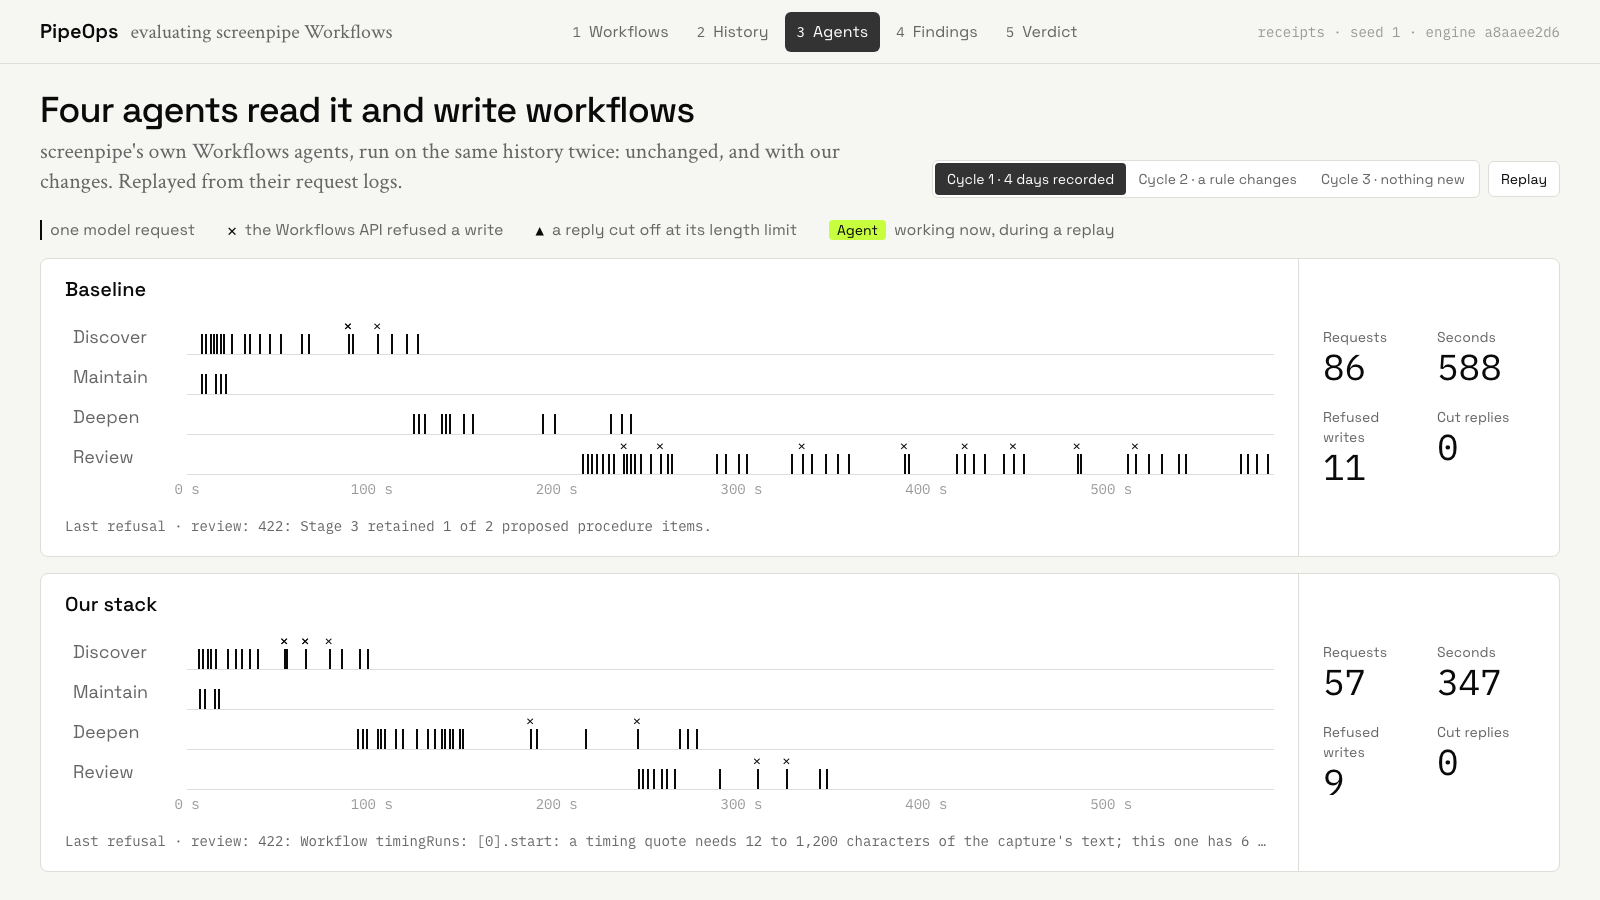
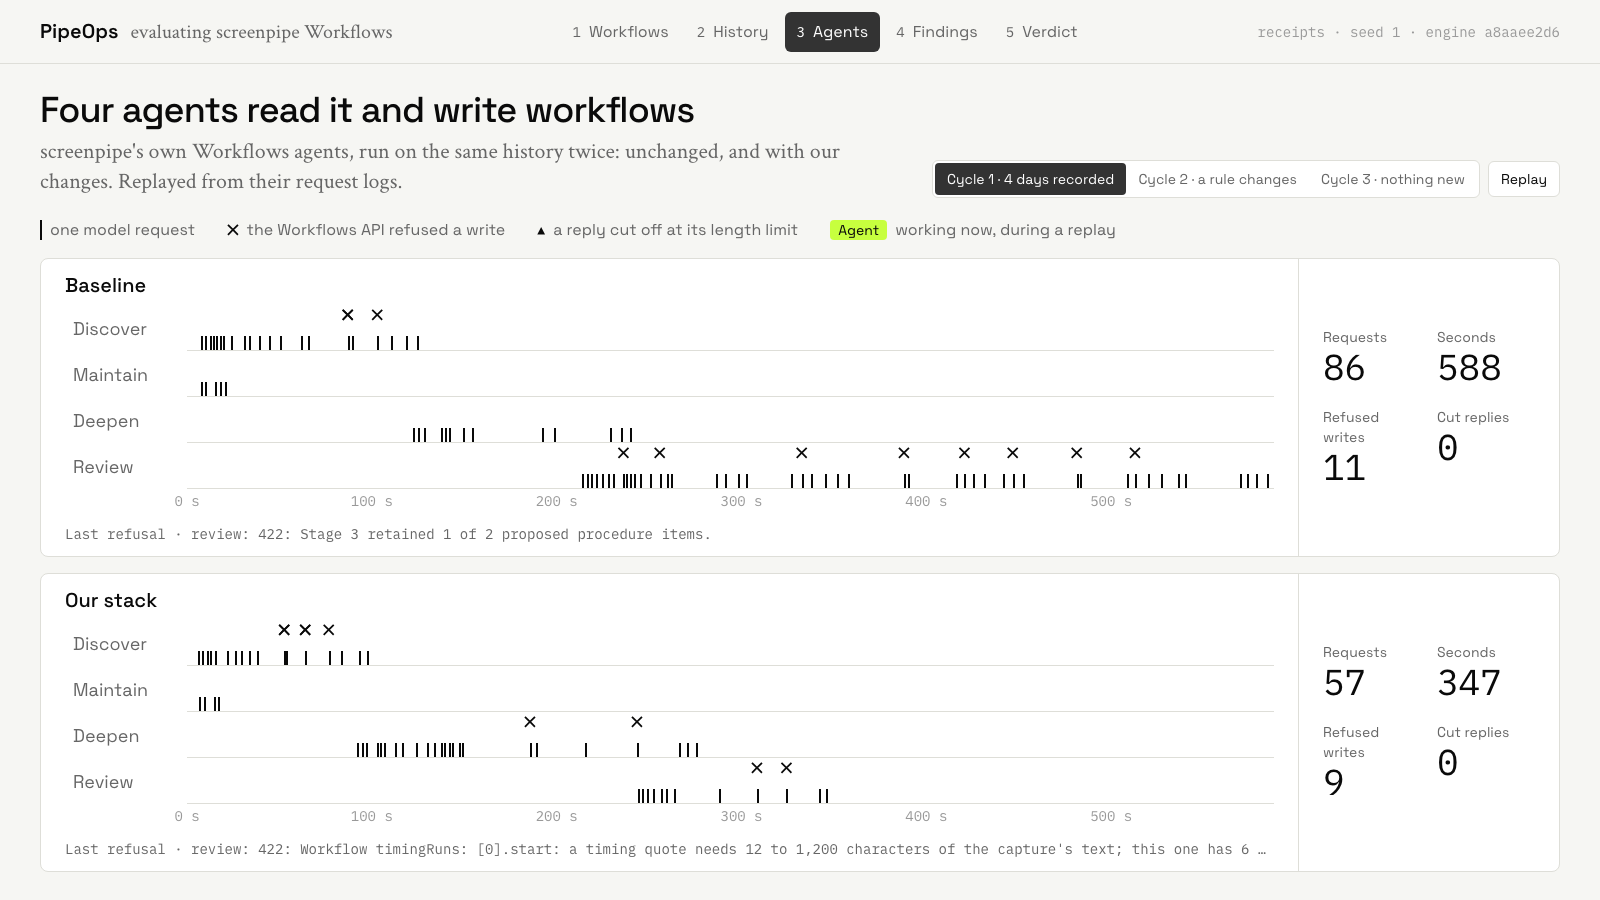
PipeOps agents: refusals, cut replies and requests on separate sub-lanes

diff --git a/pipeops/src/screens/Agents.tsx b/pipeops/src/screens/Agents.tsx
@@ -44,8 +44,8 @@ export default function Agents() {
       <div className="flex h-full flex-col gap-4">
         <div className="flex shrink-0 items-center gap-8 font-sans text-base text-muted">
           <span className="flex items-center gap-2"><span className="inline-block h-5 w-[2px] bg-ink" /> one model request</span>
-          <span className="flex items-center gap-2"><span className="font-mono text-base text-ink">✕</span> the Workflows API refused a write</span>
-          <span className="flex items-center gap-2"><span className="font-mono text-sm text-ink">▲</span> a reply cut off at its length limit</span>
+          <span className="flex items-center gap-2"><span className="font-sans text-[15px] font-semibold text-ink">✕</span> the Workflows API refused a write</span>
+          <span className="flex items-center gap-2"><span className="font-mono text-[13px] text-ink">▲</span> a reply cut off at its length limit</span>
           <span className="flex items-center gap-2"><span className="rounded-sm bg-phosphor px-2 font-sans text-sm text-ink">Agent</span> working now, during a replay</span>
         </div>
         {lanes.map(({ side, p }) => <Lane key={side} side={side} p={p} span={span} now={now} />)}
@@ -65,18 +65,18 @@ function Lane({ side, p, span, now }: { side: Side; p: Phase; span: number; now:
 
   return (
     <Card className="grid min-h-0 flex-1 grid-cols-[1fr_260px]">
-      <div className="flex min-w-0 flex-col border-r border-line px-6 py-4">
-        <div className="mb-2 font-sans text-xl font-medium">{SIDE_NAME[side]}</div>
+      <div className="flex min-w-0 flex-col border-r border-line px-6 py-3">
+        <div className="font-sans text-xl font-medium">{SIDE_NAME[side]}</div>
         {idle ? (
           <div className="flex flex-1 items-center font-serif text-3xl italic text-muted">No cycle ran: nothing new was recorded.</div>
         ) : (
-          <div className="flex flex-1 flex-col justify-center gap-1">
+          <div className="flex flex-1 flex-col justify-center gap-0.5">
             {AGENTS.map((a) => (
               <div key={a} className="grid grid-cols-[110px_1fr] items-center gap-3">
                 <span className={`rounded-sm px-2 py-0.5 font-sans text-lg transition-colors ${active(a) ? 'bg-phosphor text-ink' : 'text-muted'}`}>
                   {a[0].toUpperCase() + a.slice(1)}
                 </span>
-                <div className="relative h-9 border-b border-line">
+                <div className="relative h-[44px] border-b border-line">
                   {p.stream.filter((e) => e.agent === a && e.t <= now).map((e, i) => <Tick key={i} e={e} span={span} />)}
                   {live && <span className="absolute -top-1 bottom-0 w-px bg-ink" style={{ left: `${(now / span) * 100}%` }} />}
                 </div>
@@ -92,7 +92,7 @@ function Lane({ side, p, span, now }: { side: Side; p: Phase; span: number; now:
             </div>
           </div>
         )}
-        <div className="mt-2 h-6 truncate font-mono text-sm text-muted">{last ? `Last refusal · ${last.agent}: ${last.reply}` : ''}</div>
+        <div className="mt-1 h-5 truncate font-mono text-sm text-muted">{last ? `Last refusal · ${last.agent}: ${last.reply}` : ''}</div>
       </div>
       <dl className="grid grid-cols-2 content-center gap-x-4 gap-y-5 px-6 py-4">
         <Stat label="Requests" value={count('request')} />
@@ -106,9 +106,10 @@ function Lane({ side, p, span, now }: { side: Side; p: Phase; span: number; now:
 
 function Tick({ e, span }: { e: StreamEvent; span: number }) {
   const left = `${(e.t / span) * 100}%`;
-  if (e.kind === 'request') return <span className="absolute bottom-0 h-5 w-[2px] bg-ink" style={{ left }} />;
-  if (e.kind === 'workflows' && !e.ok) return <span className="absolute top-0 -translate-x-1/2 font-mono text-[13px] leading-none text-ink" style={{ left }}>✕</span>;
-  if (e.kind === 'cut') return <span className="absolute top-0 -translate-x-1/2 font-mono text-[12px] leading-none text-ink" style={{ left }}>▲</span>;
+  // Three sub-lanes so marks never sit on each other: refusals on top, cut replies in the middle, requests at the bottom.
+  if (e.kind === 'request') return <span className="absolute bottom-0 h-[14px] w-[2px] bg-ink" style={{ left }} />;
+  if (e.kind === 'workflows' && !e.ok) return <span className="absolute top-0 -translate-x-1/2 font-sans text-[15px] font-semibold leading-none text-ink" style={{ left }}>✕</span>;
+  if (e.kind === 'cut') return <span className="absolute top-[15px] -translate-x-1/2 font-mono text-[12px] leading-none text-ink" style={{ left }}>▲</span>;
   return null;
 }
 
